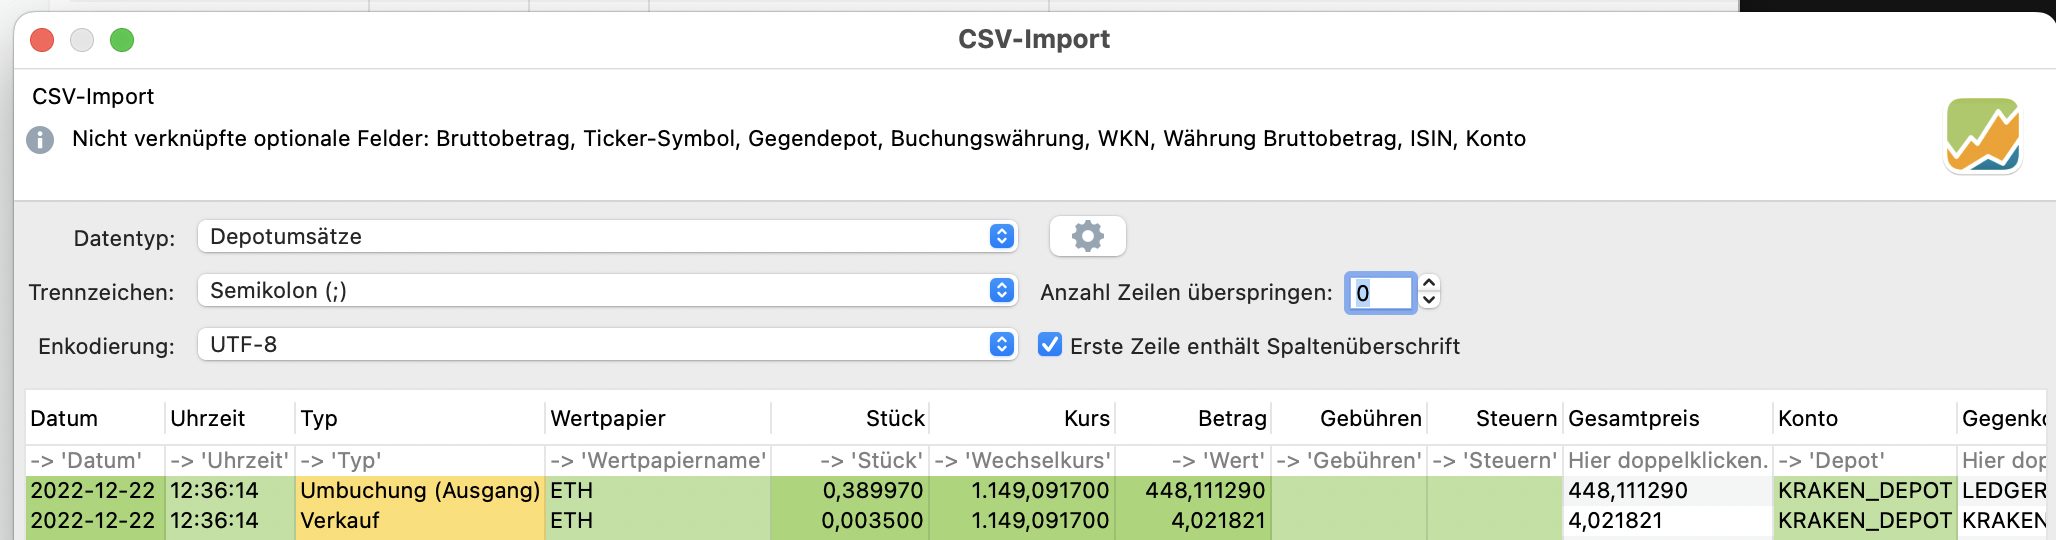
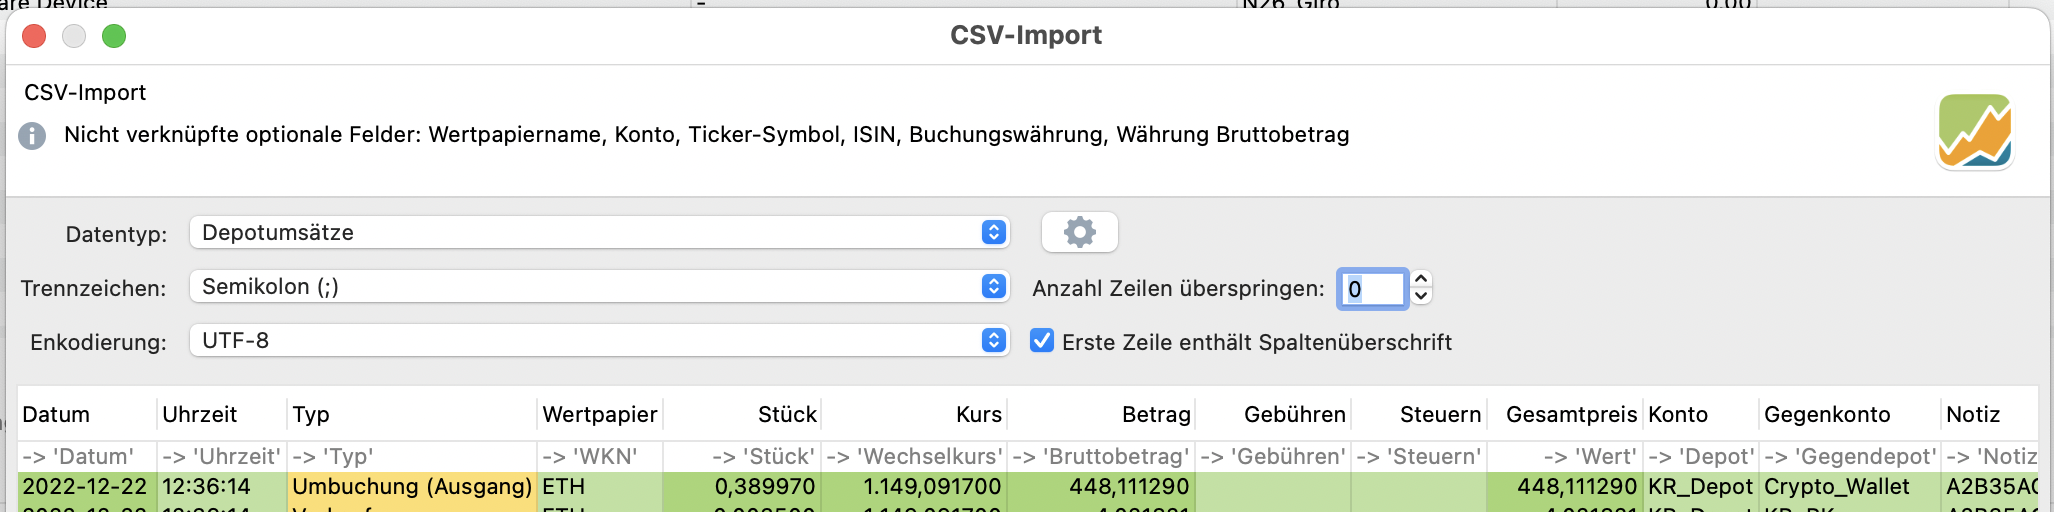
Fix issue with fees in sell transactions

Changed region(s): [[0.0, 0.0, 1.0, 1.0]]

diff --git a/src/test/process_ledger_test.py b/src/test/process_ledger_test.py
@@ -140,6 +140,30 @@ class LedgerProcessorTest(unittest.TestCase):
             result_csv = result_csv + t.to_csv() + "\n"
 
         self.assertEquals(result_csv, expected_depot_csv)
+
+    def test_import_sell(self):
+        kraken_csv = dedent("""
+        "txid","refid","time","type","subtype","aclass","asset","amount","fee","balance"
+        "LFAVC7-TR6BH-KQMRMG","TDT7NF-OITYA-C2V7KD","2021-01-02 19:14:00","trade","","currency","XXBT",-0.0041520000,0.0000000000,0.0000011800
+        "L4Q26U-35JVG-EJGUOR","TDT7NF-OITYA-C2V7KD","2021-01-02 19:14:00","trade","","currency","ZEUR",110.4427,0.28716,9183.4334
+        """)
+
+        expected_depot_csv = dedent("""
+        2021-01-02;19:14:00;Verkauf;XBT;0,004152;26.599,879576;110,442700;0,287160;;110,155540;DEPOT;ACCOUNT;TDT7NF-OITYA-C2V7KD,L4Q26U-35JVG-EJGUOR,LFAVC7-TR6BH-KQMRMG;
+        """)
+
+        df = pd.read_csv(StringIO(kraken_csv))
+        
+        lp = LedgerProcessor(dataframe=df, depot_current=self.DEPOT_CURRENT, depot_new=self.DEPOT_NEW, account=self.ACCOUNT)
+        transactions = lp.get_transactions()
+
+        dt = transactions["depot_normal_transactions"]
+
+        result_csv = "\n"
+        for t in dt:
+            result_csv = result_csv + t.to_csv() + "\n"
+
+        self.assertEquals(result_csv, expected_depot_csv)
     
     def test_import_spend_receive(self):
         kraken_csv = dedent("""

diff --git a/src/ledger_processor.py b/src/ledger_processor.py
@@ -328,7 +328,10 @@ class LedgerProcessor:
                 fee_crypto = tcrypto["fee"]
         
         if isinstance(fiat_amount, numbers.Number) and isinstance(fee_fiat, numbers.Number):
-            total = fiat_amount + fee_fiat
+            if is_buy_transaction:
+                total = fiat_amount + fee_fiat
+            else:
+                total = fiat_amount - fee_fiat
         elif isinstance(fiat_amount, numbers.Number):
             total = fiat_amount
         else:
